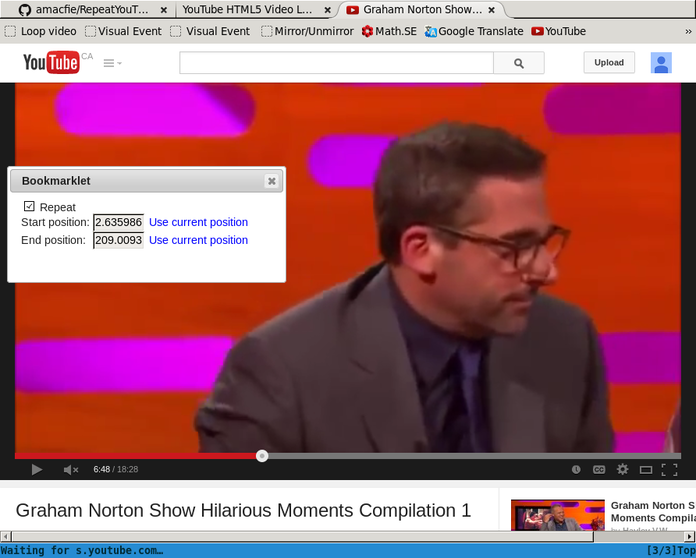
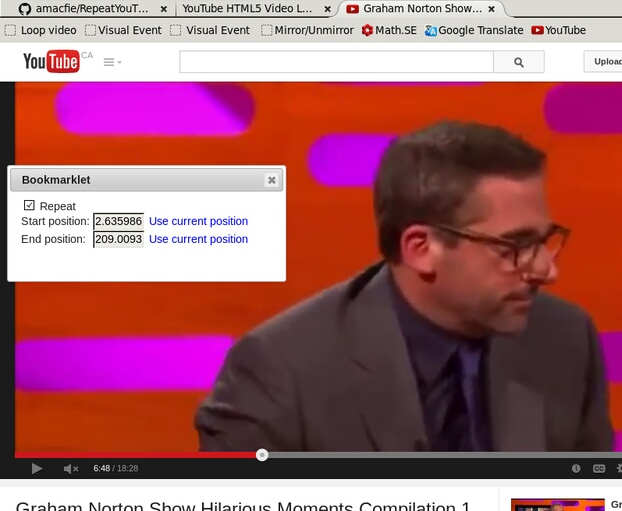
picture perfect

diff --git a/Site2.css b/Site2.css
@@ -1,4 +1,12 @@
-.what
+#screen {
+    display: block;
+    margin-left: auto;
+    margin-right: auto;
+    border-style: solid;
+    border-width: 1px;
+}
+
+.what
 {
      cursor: help
 }

diff --git a/index.html b/index.html
@@ -39,7 +39,7 @@
 
         <div id="main" role="main">
             
-        <img src="screen.png" />
+        <img src="screen.png" id="screen" />
 
         <h3>About</h3>
         <p>
